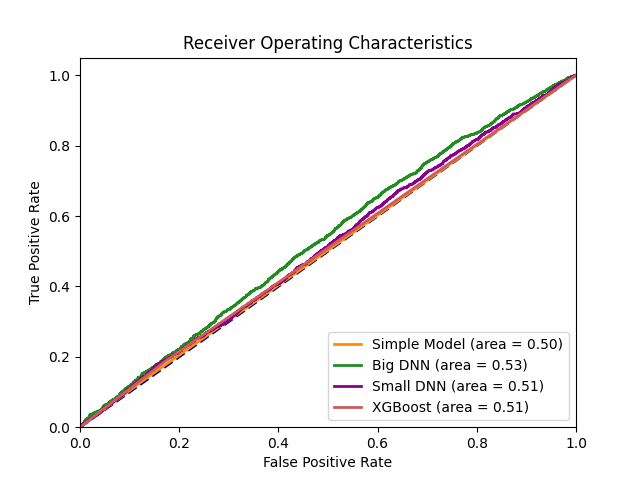
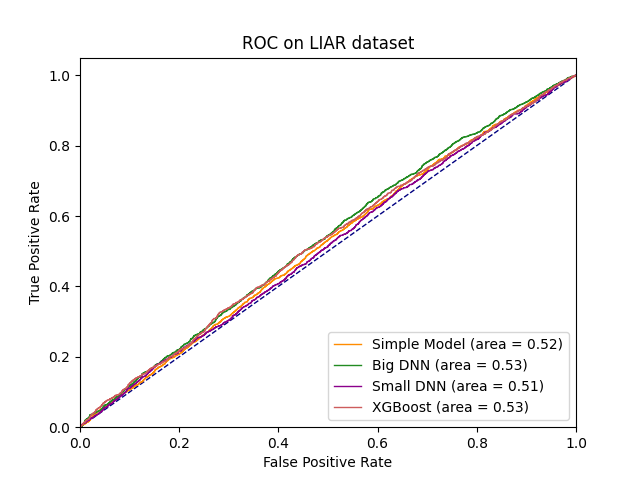
done predicting on liar

diff --git a/predict_on_liar.py b/predict_on_liar.py
@@ -52,12 +52,12 @@ def main():
 
 # Plot the ROC curve
     plt.figure()
-    plt.plot([0, 1], [0, 1], color='navy', lw=2, linestyle='--')
+    plt.plot([0, 1], [0, 1], color='navy', lw=1, linestyle='--')
     plt.xlim([0.0, 1.0])
     plt.ylim([0.0, 1.05])
     plt.xlabel('False Positive Rate')
     plt.ylabel('True Positive Rate')
-    plt.title('Receiver Operating Characteristics')
+    plt.title('ROC on LIAR dataset')
     evaluate_pipelines(pipelines, models, X_tokens, y)
     plt.legend(loc="lower right")
     plt.savefig('figures/ROC_LIAR.png')
@@ -100,8 +100,16 @@ def evaluate_pipeline(pipeline, models, X, y):
 
     # Predict and evaluate model
     model = models[pipeline['model']]
-    y_pred = model.predict(X)
-    y_pred_binary = (y_pred > 0.5).astype(int)
+    if pipeline['type'] == 'tensorflow':
+        y_pred = model.predict(X)
+        y_pred_binary = (y_pred > 0.5).astype(int)
+    else:
+        y_pred = model.predict_proba(X)
+        ## predict_proba gives each guess as a list of probabilities.
+        ## the predicted value can therefore be interpreted as the p(1)
+        y_pred = [b for a,b in y_pred]
+        y_pred_binary = model.predict(X)
+
 
     print(f"Results for {pipeline['name']}")
     print(classification_report(y, y_pred_binary))
@@ -109,7 +117,7 @@ def evaluate_pipeline(pipeline, models, X, y):
     # Calculate the ROC curve, AUC score and add the line
     fpr, tpr, _ = roc_curve(y, y_pred)
     roc_auc = auc(fpr, tpr)
-    plt.plot(fpr, tpr, color=pipeline['color'], lw=2, label=f'{pipeline["name"]} (area = %0.2f)' % roc_auc)
+    plt.plot(fpr, tpr, color=pipeline['color'], lw=1, label=f'{pipeline["name"]} (area = %0.2f)' % roc_auc)
 
 
 if __name__ == '__main__': 
